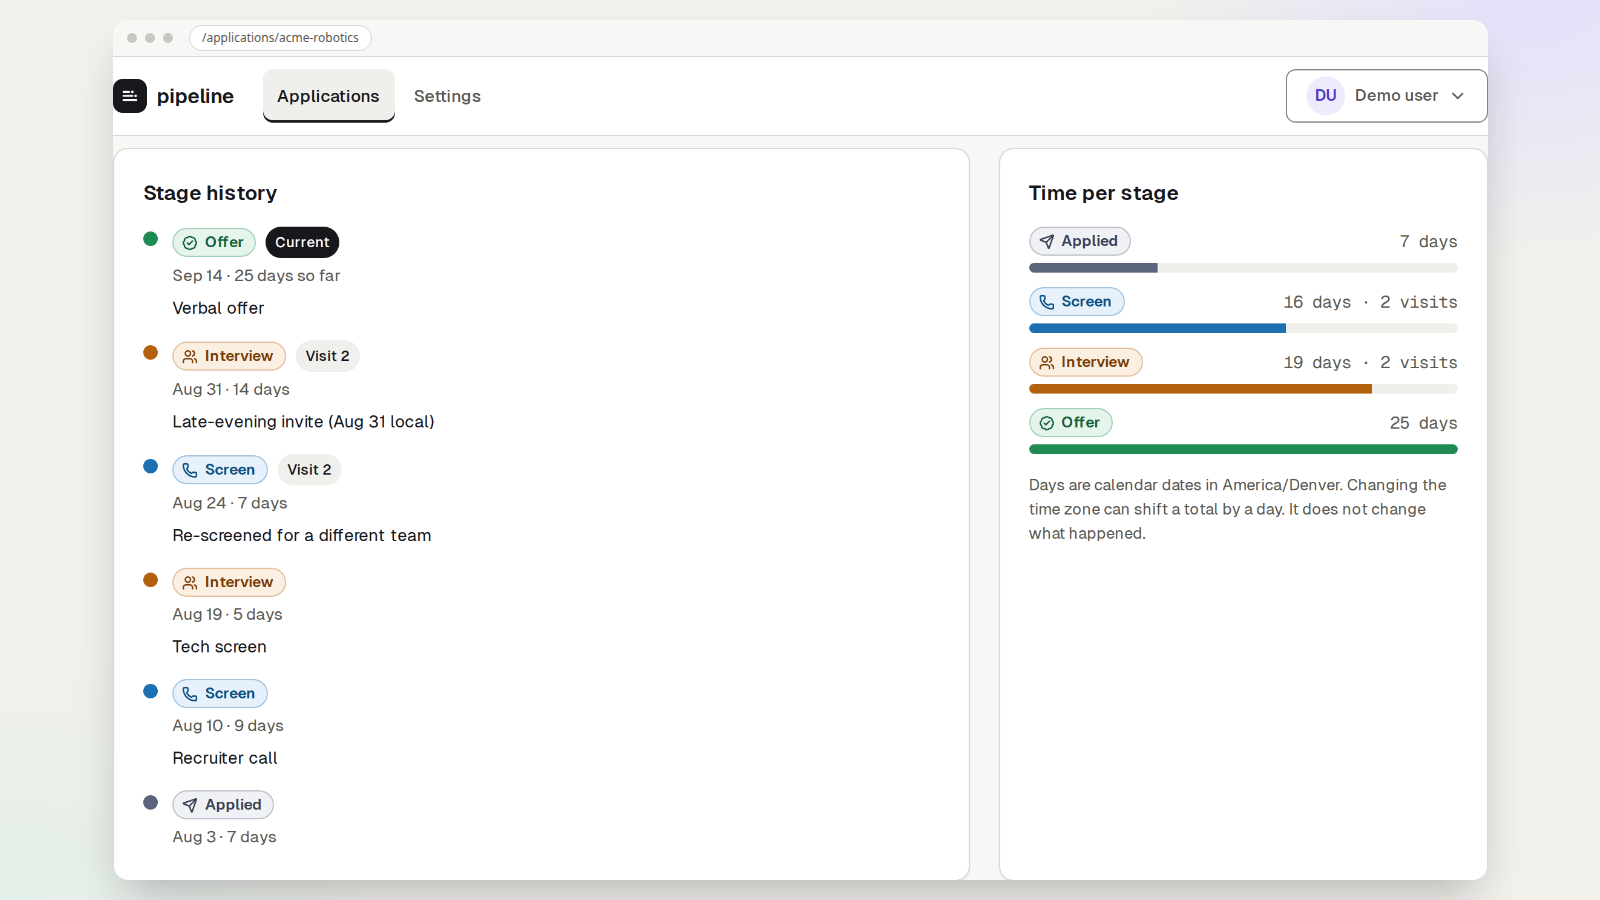
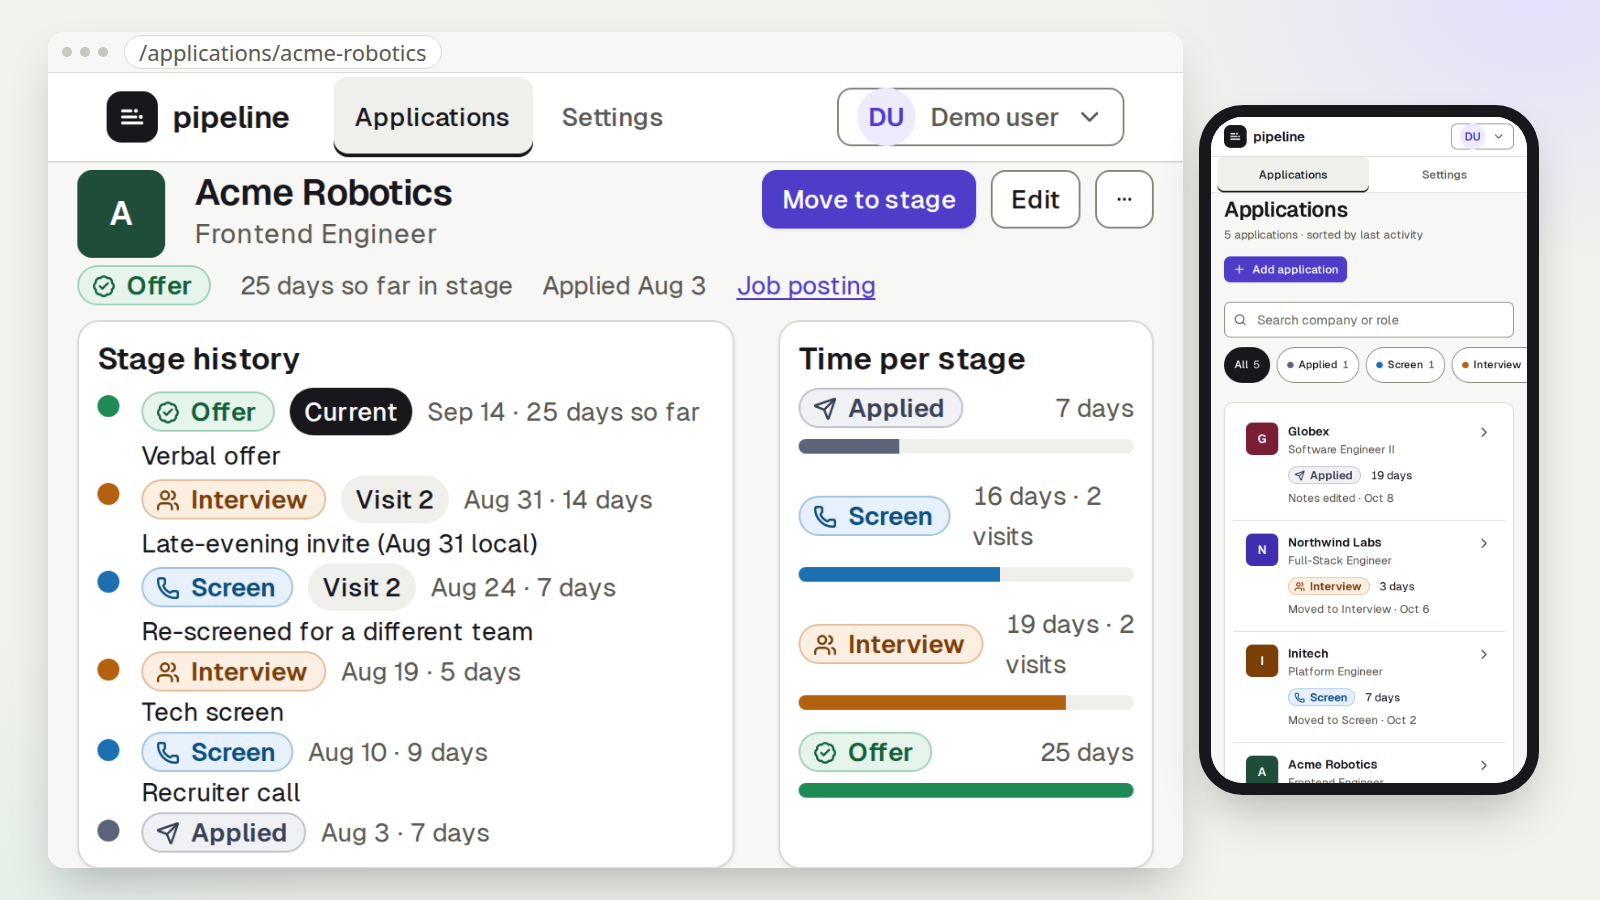
Recapture the README hero so body text stays at least 12px.
The crop is the detail column, the capture script fails under 12px at the README width, and leaving the demo lands on sign-up.

Changed region(s): [[0.0312, 0.0311, 0.9688, 1.0]]

diff --git a/scripts/readme-hero.ts b/scripts/readme-hero.ts
@@ -107,11 +107,15 @@ async function cropText(page: Page): Promise<TextSample[]> {
     const grid = history?.parentElement;
     const main = document.querySelector('main');
     if (!header || !grid || !main) return [];
+    const column = document.querySelector('header .max-w-page');
     const top = header.getBoundingClientRect().top;
     const bottom = grid.getBoundingClientRect().bottom;
-    const left = Math.min(header.getBoundingClientRect().left, main.getBoundingClientRect().left);
+    const left = Math.min(
+      column?.getBoundingClientRect().left ?? header.getBoundingClientRect().left,
+      main.getBoundingClientRect().left,
+    );
     const right = Math.max(
-      header.getBoundingClientRect().right,
+      column?.getBoundingClientRect().right ?? header.getBoundingClientRect().right,
       main.getBoundingClientRect().right,
     );
     const samples: TextSample[] = [];
@@ -187,12 +191,14 @@ async function main() {
     }
 
     const header = desktopPage.locator('header');
+    const column = desktopPage.locator('header .max-w-page');
     const main = desktopPage.locator('main');
     const grid = desktopPage.locator('[aria-labelledby="history-heading"]').locator('..');
     await grid.waitFor();
 
     let viewport = { width: 1280, height: 720 };
     let headerBox = await boxOf(header, 'header');
+    let columnBox = await boxOf(column, 'column');
     let mainBox = await boxOf(main, 'main');
     let gridBox = await boxOf(grid, 'cards');
     const needed = Math.ceil(gridBox.y + gridBox.height + 8);
@@ -201,11 +207,12 @@ async function main() {
       await desktopPage.setViewportSize(viewport);
       await settle(desktopPage);
       headerBox = await boxOf(header, 'header');
+      columnBox = await boxOf(column, 'column');
       mainBox = await boxOf(main, 'main');
       gridBox = await boxOf(grid, 'cards');
     }
-    const left = Math.min(headerBox.x, mainBox.x);
-    const right = Math.max(headerBox.x + headerBox.width, mainBox.x + mainBox.width);
+    const left = Math.min(columnBox.x, mainBox.x);
+    const right = Math.max(columnBox.x + columnBox.width, mainBox.x + mainBox.width);
     const crop = {
       x: Math.max(0, Math.floor(left)),
       y: Math.max(0, Math.floor(headerBox.y)),
@@ -258,12 +265,11 @@ async function main() {
     const browserY = Math.round((canvas.height - browserH) / 2);
     const phoneX = browserX + browserW + gap;
     const phoneY = Math.round((canvas.height - phoneOuter.height) / 2);
-    const smallest = assertLegible(samples, scale, 'desktop crop');
-
     console.log(
-      `hero crop ${crop.width}x${crop.height} scale ${scale.toFixed(3)} ` +
-        `frame ${browserW}x${browserH} smallest ${smallest.toFixed(2)}px`,
+      `hero crop ${crop.width}x${crop.height} scale ${scale.toFixed(3)} frame ${browserW}x${browserH}`,
     );
+    const smallest = assertLegible(samples, scale, 'desktop crop');
+    console.log(`hero smallest ${smallest.toFixed(2)}px at 880px display`);
 
     const html = frame
       .replaceAll('/*BROWSER_X*/ 80px', `${browserX}px`)

diff --git a/client/src/index.css b/client/src/index.css
@@ -743,7 +743,7 @@ html[data-screenshot] .btn {
   min-height: 32px;
   height: 32px;
   padding: 0 10px;
-  font-size: 13px;
+  font-size: 14px;
 }
 
 html[data-screenshot] .icon-btn {
@@ -756,8 +756,23 @@ html[data-screenshot] .job-link {
 }
 
 html[data-screenshot] .chip {
-  height: 20px;
-  font-size: 13px;
+  height: 22px;
+  font-size: 14px;
+}
+
+html[data-screenshot] [aria-labelledby='history-heading'] li > div {
+  display: flex;
+  flex-wrap: wrap;
+  align-items: center;
+  gap: 2px 8px;
+}
+
+html[data-screenshot] [aria-labelledby='history-heading'] .user-text {
+  flex-basis: 100%;
+}
+
+html[data-screenshot] [aria-labelledby='totals-heading'] > p {
+  display: none;
 }
 
 html[data-screenshot] ol > li + li {
@@ -767,8 +782,15 @@ html[data-screenshot] ol > li + li {
 html[data-screenshot] [aria-labelledby='history-heading'] p,
 html[data-screenshot] [aria-labelledby='totals-heading'] p {
   margin-top: 0;
-  font-size: 13.5px;
-  line-height: 16px;
+  font-size: 14px !important;
+  line-height: 18px;
+}
+
+html[data-screenshot] .text-\[12px\],
+html[data-screenshot] .text-\[12\.5px\],
+html[data-screenshot] .text-\[13px\],
+html[data-screenshot] .text-\[13\.5px\] {
+  font-size: 14px !important;
 }
 
 [data-sonner-toast] {

diff --git a/client/src/components/shell.tsx b/client/src/components/shell.tsx
@@ -1,6 +1,6 @@
 import { useQueryClient } from '@tanstack/react-query';
 import { ChevronDown, FlaskConical } from 'lucide-react';
-import { useEffect, useState } from 'react';
+import { useEffect, useRef, useState } from 'react';
 import { Link, NavLink, Navigate, Outlet, useLocation, useNavigate } from 'react-router-dom';
 import { toast } from 'sonner';
 import { apiJson } from '@/lib/api';
@@ -15,6 +15,7 @@ export function Shell() {
   const location = useLocation();
   const settingsOn = location.pathname.startsWith('/settings');
   const queryClient = useQueryClient();
+  const leaveToSignup = useRef(false);
   const [resendIn, setResendIn] = useState(0);
   const [resending, setResending] = useState(false);
 
@@ -25,12 +26,13 @@ export function Shell() {
   }, [resendIn]);
 
   if (loading) return <PageSkeleton />;
-  if (!user) return <Navigate to="/" replace />;
+  if (!user) return <Navigate to={leaveToSignup.current ? '/signup' : '/'} replace />;
 
   async function leaveDemo() {
     await signOut();
+    leaveToSignup.current = true;
     queryClient.setQueryData(['me'], null);
-    navigate('/signup');
+    navigate('/signup', { replace: true });
   }
 
   async function resend() {
